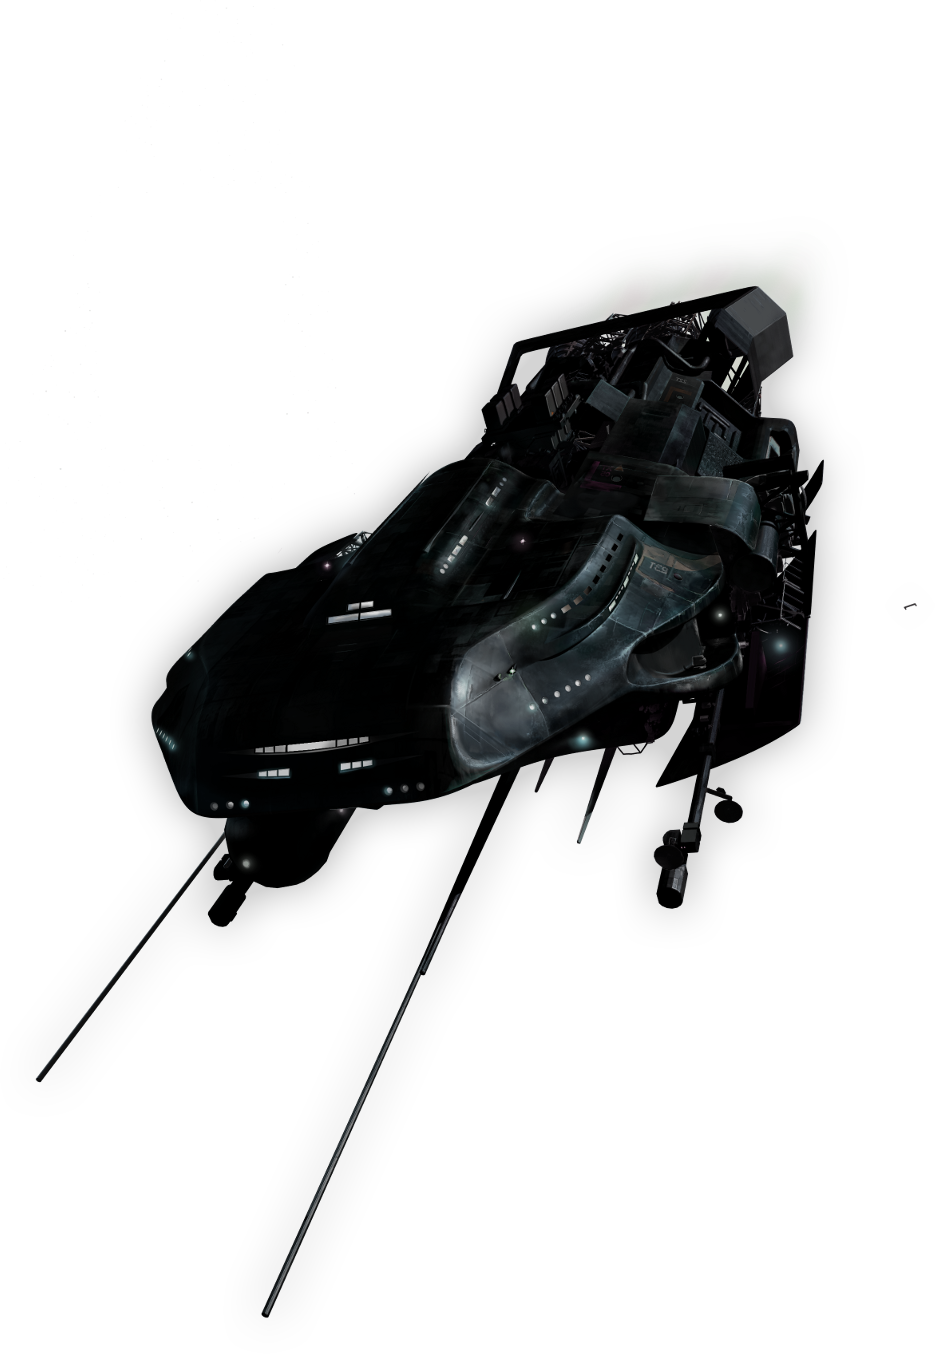
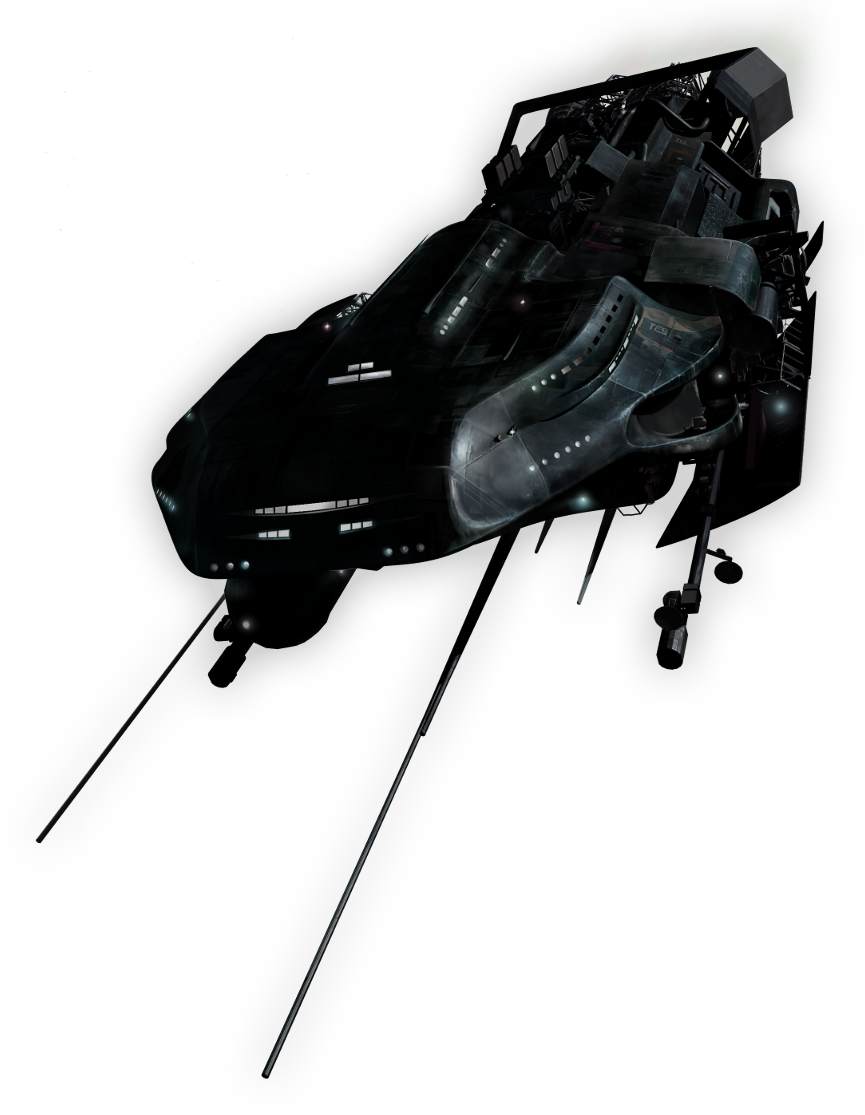
starship animation update

diff --git a/style.css b/style.css
@@ -6,4 +6,4 @@ Author URI:   http://syn-ack.se/
 Description:  Wordpress theme for the escape from /dev/null conference
 
 Template:     swdc-wpbp
-*/@import url('http://fonts.googleapis.com/css?family=Inconsolata');@import url('../swdc-wpbp/style.css');.hidden{display:none !important;visibility:hidden}.visuallyhidden{border:0;clip:rect(0 0 0 0);height:1px;margin:-1px;overflow:hidden;padding:0;position:absolute;width:1px}.visuallyhidden.focusable:active,.visuallyhidden.focusable:focus{clip:auto;height:auto;margin:0;overflow:visible;position:static;width:auto}.invisible{visibility:hidden}.assistive-text{position:absolute !important;clip:rect(1px 1px 1px 1px);clip:rect(1px, 1px, 1px, 1px)}small,.small{color:#777;font-size:80%}small a,.small a{text-decoration:none;color:inherit;text-decoration:inherit;cursor:inherit}small a:hover,.small a:hover{text-decoration:underline}small a:active,small a:focus,.small a:active,.small a:focus{outline:none}.unstyled-list{list-style:none;padding:0}.unstyled-list li{margin:12px inherit}.inline-list{padding:0}.inline-list li{display:-moz-inline-box;-moz-box-orient:vertical;display:inline-block;vertical-align:middle;*vertical-align:auto;margin-right:12px}.inline-list li{*display:inline}.aligncenter{display:block;margin-left:auto;margin-right:auto}.alignleft{float:left}.alignright{float:right}.wp-caption{border:1px solid #ddd;text-align:center;background-color:#f3f3f3;padding-top:4px;margin:10px;-moz-border-radius:3px;-khtml-border-radius:3px;-webkit-border-radius:3px;border-radius:3px}.wp-caption img{margin:0;padding:0;border:0 none}.wp-caption-dd{font-size:11px;line-height:17px;padding:0 4px 5px;margin:0}.sticky{background:#f7f7f7;padding:0 10px 10px}.sticky h2{padding-top:10px}html{background:#020e1a url('images/starfield.png?1329727782');color:#fff;height:100%;-webkit-animation:BG-POSITION 16s linear infinite;-moz-animation:BG-POSITION 16s linear infinite;-ms-animation:BG-POSITION 16s linear infinite}body{background-image:-webkit-gradient(linear, 50% 0%, 50% 100%, color-stop(0%, rgba(0,0,0,0)), color-stop(100%, rgba(0,0,0,0.6)));background-image:-webkit-linear-gradient(top, rgba(0,0,0,0),rgba(0,0,0,0.6));background-image:-moz-linear-gradient(top, rgba(0,0,0,0),rgba(0,0,0,0.6));background-image:-o-linear-gradient(top, rgba(0,0,0,0),rgba(0,0,0,0.6));background-image:-ms-linear-gradient(top, rgba(0,0,0,0),rgba(0,0,0,0.6));background-image:linear-gradient(top, rgba(0,0,0,0),rgba(0,0,0,0.6));font:16px/1.5 Inconsolata, Lucida Console, Consolas, Lucida Sans Typewriter, monospace;min-height:100%}a{text-decoration:none;color:#4dfeb1}a:hover{text-decoration:underline}#starship{background:url('images/starship.png?1329731643') 340px -260px no-repeat;bottom:0;left:0;position:absolute;right:0;top:0;-webkit-animation:STARSHIP-POSITION 20s;-moz-animation:STARSHIP-POSITION 20s;-ms-animation:STARSHIP-POSITION 20s}#container{overflow:hidden;*zoom:1;background:rgba(0,0,0,0.4);padding-left:48px;padding-top:48px;position:relative;width:640px}#header .site-title{background:#4dfeb1;color:#020e1a;padding:0 24px}#header .site-title a{color:inherit;text-decoration:inherit;cursor:inherit}#header .site-title a:active,#header .site-title a:focus{outline:none}#main .entry-header,#main .entry-content,#main .entry-footer{padding:0 24px}#sidebar-main{padding:24px 24px}#footer{background:rgba(0,0,0,0.4);border-left:1px solid black;bottom:0;position:fixed;right:0;top:0;width:140px}.widget_puffbutton a{-moz-border-radius:2px;-webkit-border-radius:2px;-o-border-radius:2px;-ms-border-radius:2px;-khtml-border-radius:2px;border-radius:2px;-moz-transition:all 1s;-webkit-transition:all 1s;-o-transition:all 1s;transition:all 1s;color:inherit;text-decoration:inherit;cursor:inherit;background:transparent;border:1px solid #4dfeb1;display:block;font-weight:bold;padding:6px 24px;-webkit-animation:BUTTON-BGPULSE 3s infinite;-moz-animation:BUTTON-BGPULSE 3s infinite;-ms-animation:BUTTON-BGPULSE 3s infinite}.widget_puffbutton a:active,.widget_puffbutton a:focus{outline:none}.widget_puffbutton a:after{content:' ›'}.widget_puffbutton a:focus,.widget_puffbutton a:hover{background:#4dfeb1;color:#020e1a;-webkit-animation:none;-moz-animation:none;-ms-animation:none}@-webkit-keyframes BUTTON-BGPULSE{0%{background:rgba(77,254,177,0)}50%{background:rgba(77,254,177,0.2)}100%{background:rgba(77,254,177,0)}}@-moz-keyframes BUTTON-BGPULSE{0%{background:rgba(77,254,177,0)}50%{background:rgba(77,254,177,0.2)}100%{background:rgba(77,254,177,0)}}@-ms-keyframes BUTTON-BGPULSE{0%{background:rgba(77,254,177,0)}50%{background:rgba(77,254,177,0.2)}100%{background:rgba(77,254,177,0)}}@-webkit-keyframes BG-POSITION{0%{background-position:0 0}100%{background-position:-640px 320px}}@-moz-keyframes BG-POSITION{0%{background-position:0 0}100%{background-position:-640px 320px}}@-ms-keyframes BG-POSITION{0%{background-position:0 0}100%{background-position:-640px 320px}}@-webkit-keyframes STARSHIP-POSITION{0%{background-position:-935px 338.5px}10%{background-position:-935px 338.5px}100%{background-position:340px -260px}}@-moz-keyframes STARSHIP-POSITION{0%{background-position:-935px 338.5px}10%{background-position:-935px 338.5px}100%{background-position:340px -260px}}@-ms-keyframes STARSHIP-POSITION{0%{background-position:-935px 338.5px}10%{background-position:-935px 338.5px}100%{background-position:340px -260px}}
+*/@import url('http://fonts.googleapis.com/css?family=Inconsolata');@import url('../swdc-wpbp/style.css');.hidden{display:none !important;visibility:hidden}.visuallyhidden{border:0;clip:rect(0 0 0 0);height:1px;margin:-1px;overflow:hidden;padding:0;position:absolute;width:1px}.visuallyhidden.focusable:active,.visuallyhidden.focusable:focus{clip:auto;height:auto;margin:0;overflow:visible;position:static;width:auto}.invisible{visibility:hidden}.assistive-text{position:absolute !important;clip:rect(1px 1px 1px 1px);clip:rect(1px, 1px, 1px, 1px)}small,.small{color:#777;font-size:80%}small a,.small a{text-decoration:none;color:inherit;text-decoration:inherit;cursor:inherit}small a:hover,.small a:hover{text-decoration:underline}small a:active,small a:focus,.small a:active,.small a:focus{outline:none}.unstyled-list{list-style:none;padding:0}.unstyled-list li{margin:12px inherit}.inline-list{padding:0}.inline-list li{display:-moz-inline-box;-moz-box-orient:vertical;display:inline-block;vertical-align:middle;*vertical-align:auto;margin-right:12px}.inline-list li{*display:inline}.aligncenter{display:block;margin-left:auto;margin-right:auto}.alignleft{float:left}.alignright{float:right}.wp-caption{border:1px solid #ddd;text-align:center;background-color:#f3f3f3;padding-top:4px;margin:10px;-moz-border-radius:3px;-khtml-border-radius:3px;-webkit-border-radius:3px;border-radius:3px}.wp-caption img{margin:0;padding:0;border:0 none}.wp-caption-dd{font-size:11px;line-height:17px;padding:0 4px 5px;margin:0}.sticky{background:#f7f7f7;padding:0 10px 10px}.sticky h2{padding-top:10px}html{background:#020e1a url('images/starfield.png?1329727782');color:#fff;height:100%;-webkit-animation:BG-POSITION 16s linear infinite;-moz-animation:BG-POSITION 16s linear infinite;-ms-animation:BG-POSITION 16s linear infinite}body{background-image:-webkit-gradient(linear, 50% 0%, 50% 100%, color-stop(0%, rgba(0,0,0,0)), color-stop(100%, rgba(0,0,0,0.6)));background-image:-webkit-linear-gradient(top, rgba(0,0,0,0),rgba(0,0,0,0.6));background-image:-moz-linear-gradient(top, rgba(0,0,0,0),rgba(0,0,0,0.6));background-image:-o-linear-gradient(top, rgba(0,0,0,0),rgba(0,0,0,0.6));background-image:-ms-linear-gradient(top, rgba(0,0,0,0),rgba(0,0,0,0.6));background-image:linear-gradient(top, rgba(0,0,0,0),rgba(0,0,0,0.6));font:16px/1.5 Inconsolata, Lucida Console, Consolas, Lucida Sans Typewriter, monospace;min-height:100%}a{text-decoration:none;color:#4dfeb1}a:hover{text-decoration:underline}#starship{background:url('images/starship.png?1329816412') 360px 10px no-repeat;bottom:0;left:0;position:absolute;right:0;top:0;-webkit-animation:STARSHIP-POSITION 20s;-moz-animation:STARSHIP-POSITION 20s;-ms-animation:STARSHIP-POSITION 20s}#container{overflow:hidden;*zoom:1;background:rgba(0,0,0,0.4);padding-left:48px;padding-top:48px;position:relative;width:640px}#header .site-title{background:#4dfeb1;color:#020e1a;padding:0 24px}#header .site-title a{color:inherit;text-decoration:inherit;cursor:inherit}#header .site-title a:active,#header .site-title a:focus{outline:none}#main .entry-header,#main .entry-content,#main .entry-footer{padding:0 24px}#sidebar-main{padding:24px 24px}#footer{background:rgba(0,0,0,0.4);border-left:1px solid black;bottom:0;padding:24px 12px;position:fixed;right:0;top:0;width:140px}#footer img{height:auto;max-width:140px}.widget_puffbutton a{-moz-border-radius:2px;-webkit-border-radius:2px;-o-border-radius:2px;-ms-border-radius:2px;-khtml-border-radius:2px;border-radius:2px;-moz-transition:all 1s;-webkit-transition:all 1s;-o-transition:all 1s;transition:all 1s;color:inherit;text-decoration:inherit;cursor:inherit;background:transparent;border:1px solid #4dfeb1;display:block;font-weight:bold;padding:6px 24px;-webkit-animation:BUTTON-BGPULSE 3s infinite;-moz-animation:BUTTON-BGPULSE 3s infinite;-ms-animation:BUTTON-BGPULSE 3s infinite}.widget_puffbutton a:active,.widget_puffbutton a:focus{outline:none}.widget_puffbutton a:after{content:' ›'}.widget_puffbutton a:focus,.widget_puffbutton a:hover{background:#4dfeb1;color:#020e1a;-webkit-animation:none;-moz-animation:none;-ms-animation:none}@-webkit-keyframes BUTTON-BGPULSE{0%{background:rgba(77,254,177,0)}50%{background:rgba(77,254,177,0.2)}100%{background:rgba(77,254,177,0)}}@-moz-keyframes BUTTON-BGPULSE{0%{background:rgba(77,254,177,0)}50%{background:rgba(77,254,177,0.2)}100%{background:rgba(77,254,177,0)}}@-ms-keyframes BUTTON-BGPULSE{0%{background:rgba(77,254,177,0)}50%{background:rgba(77,254,177,0.2)}100%{background:rgba(77,254,177,0)}}@-webkit-keyframes BG-POSITION{0%{background-position:0 0}100%{background-position:-640px 320px}}@-moz-keyframes BG-POSITION{0%{background-position:0 0}100%{background-position:-640px 320px}}@-ms-keyframes BG-POSITION{0%{background-position:0 0}100%{background-position:-640px 320px}}@-webkit-keyframes STARSHIP-POSITION{0%{background-position:-865px 278.75px}100%{background-position:360px 10px}}@-moz-keyframes STARSHIP-POSITION{0%{background-position:-865px 278.75px}100%{background-position:360px 10px}}@-ms-keyframes STARSHIP-POSITION{0%{background-position:-865px 278.75px}100%{background-position:360px 10px}}

diff --git a/sass/partials/_page.scss b/sass/partials/_page.scss
@@ -20,7 +20,7 @@ a {
 }
 
 #starship {
-  background: image-url('starship.png') 340px -260px no-repeat;
+  background: image-url('starship.png') 360px 10px no-repeat;
   bottom: 0;
   left: 0;
   position: absolute;
@@ -67,10 +67,15 @@ a {
   background: rgba( black, .4 );
   border-left: 1px solid black;
   bottom: 0;
+  padding: $base-vmargin .5 * $base-hmargin;
   position: fixed;
   right: 0;
   top: 0;
   width: 140px;
+  img {
+    height: auto;
+    max-width: 140px;
+  }
 }
 
 // WIDGETS
@@ -133,16 +138,13 @@ a {
 
 @-webkit-keyframes STARSHIP-POSITION {
   0%   { background-position: -1 * image-width('starship.png') .25 * image-height('starship.png'); }
-  10%   { background-position: -1 * image-width('starship.png') .25 * image-height('starship.png'); }
-  100% { background-position: 340px -260px; }
+  100% { background-position: 360px 10px; }
 }
 @-moz-keyframes STARSHIP-POSITION {
   0%   { background-position: -1 * image-width('starship.png') .25 * image-height('starship.png'); }
-  10%   { background-position: -1 * image-width('starship.png') .25 * image-height('starship.png'); }
-  100% { background-position: 340px -260px; }
+  100% { background-position: 360px 10px; }
 }
 @-ms-keyframes STARSHIP-POSITION {
   0%   { background-position: -1 * image-width('starship.png') .25 * image-height('starship.png'); }
-  10%   { background-position: -1 * image-width('starship.png') .25 * image-height('starship.png'); }
-  100% { background-position: 340px -260px; }
+  100% { background-position: 360px 10px; }
 }
